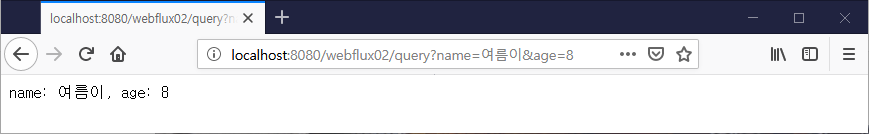
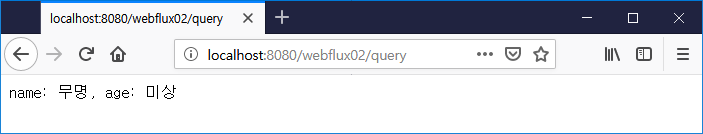
RouteFunction

diff --git a/webflux01/src/main/java/com/heaven/webflux01/Webflux02.java b/webflux01/src/main/java/com/heaven/webflux01/Webflux02.java
@@ -1,22 +1,19 @@
 package com.heaven.webflux01;
 
-import lombok.*;
+import lombok.Data;
 import lombok.extern.slf4j.Slf4j;
 import org.springframework.context.annotation.Bean;
 import org.springframework.stereotype.Component;
-import org.springframework.util.MultiValueMap;
 import org.springframework.web.reactive.function.server.RouterFunction;
 import org.springframework.web.reactive.function.server.RouterFunctions;
 import org.springframework.web.reactive.function.server.ServerResponse;
-import reactor.core.publisher.Mono;
 
-import java.util.Map;
-
-import static org.springframework.web.reactive.function.BodyExtractors.toFormData;
 import static org.springframework.web.reactive.function.BodyExtractors.toMono;
 import static org.springframework.web.reactive.function.BodyInserters.fromObject;
 import static org.springframework.web.reactive.function.server.RequestPredicates.GET;
 import static org.springframework.web.reactive.function.server.RequestPredicates.POST;
+import static org.springframework.web.reactive.function.server.RequestPredicates.PUT;
+import static org.springframework.web.reactive.function.server.RequestPredicates.DELETE;
 import static org.springframework.web.reactive.function.server.ServerResponse.ok;
 
 @Slf4j
@@ -47,8 +44,8 @@ public class Webflux02 {
                                 fromObject(
                                         String.format(
                                                 "name: %s, age: %s",
-                                                req.queryParam("name"),
-                                                req.queryParam("age")
+                                                req.queryParam("name").orElse("무명"),
+                                                req.queryParam("age").orElse("미상")
                                         )
                                 )
                         )
@@ -57,7 +54,7 @@ public class Webflux02 {
 
     @Bean
     RouterFunction<ServerResponse> route004() {
-        return RouterFunctions.route(POST("/webflux02/post"),
+        return RouterFunctions.route(POST("/webflux02/json"),
                 req -> req.body(toMono(User.class))
                         .doOnNext(user -> log.info(user.toString()))
                         .then(ok().build()));
@@ -70,10 +67,40 @@ public class Webflux02 {
 //                    .then(ok().build())
 //        );
     }
+
+    @Bean
+    RouterFunction<ServerResponse> route005() {
+        return RouterFunctions.route(
+                GET("/boards"),
+                req -> ok().body(fromObject("GET /boards")))
+            .andRoute(
+                GET("/boards/{num}"),
+                req -> ok().body(fromObject("GET /boards/" + req.pathVariable("num"))))
+            .andRoute(
+                POST("/boards"),
+                req -> req.body(toMono(Board.class))
+                    .doOnNext(board -> log.info(board.toString()))
+                    .then(ok().build()))
+            .andRoute(
+                PUT("/boards"),
+                req -> req.body(toMono(Board.class))
+                    .doOnNext(board -> log.info(board.toString()))
+                    .then(ok().build()))
+            .andRoute(
+                DELETE("/boards/{num}"),
+                req -> ok().body(fromObject("DELETE /board/" + req.pathVariable("num"))));
+    }
 }
 
 @Data
 class User {
     private String name;
     private Integer age;
+}
+
+@Data
+class Board {
+    private int num;
+    private String title;
+    private String content;
 }
